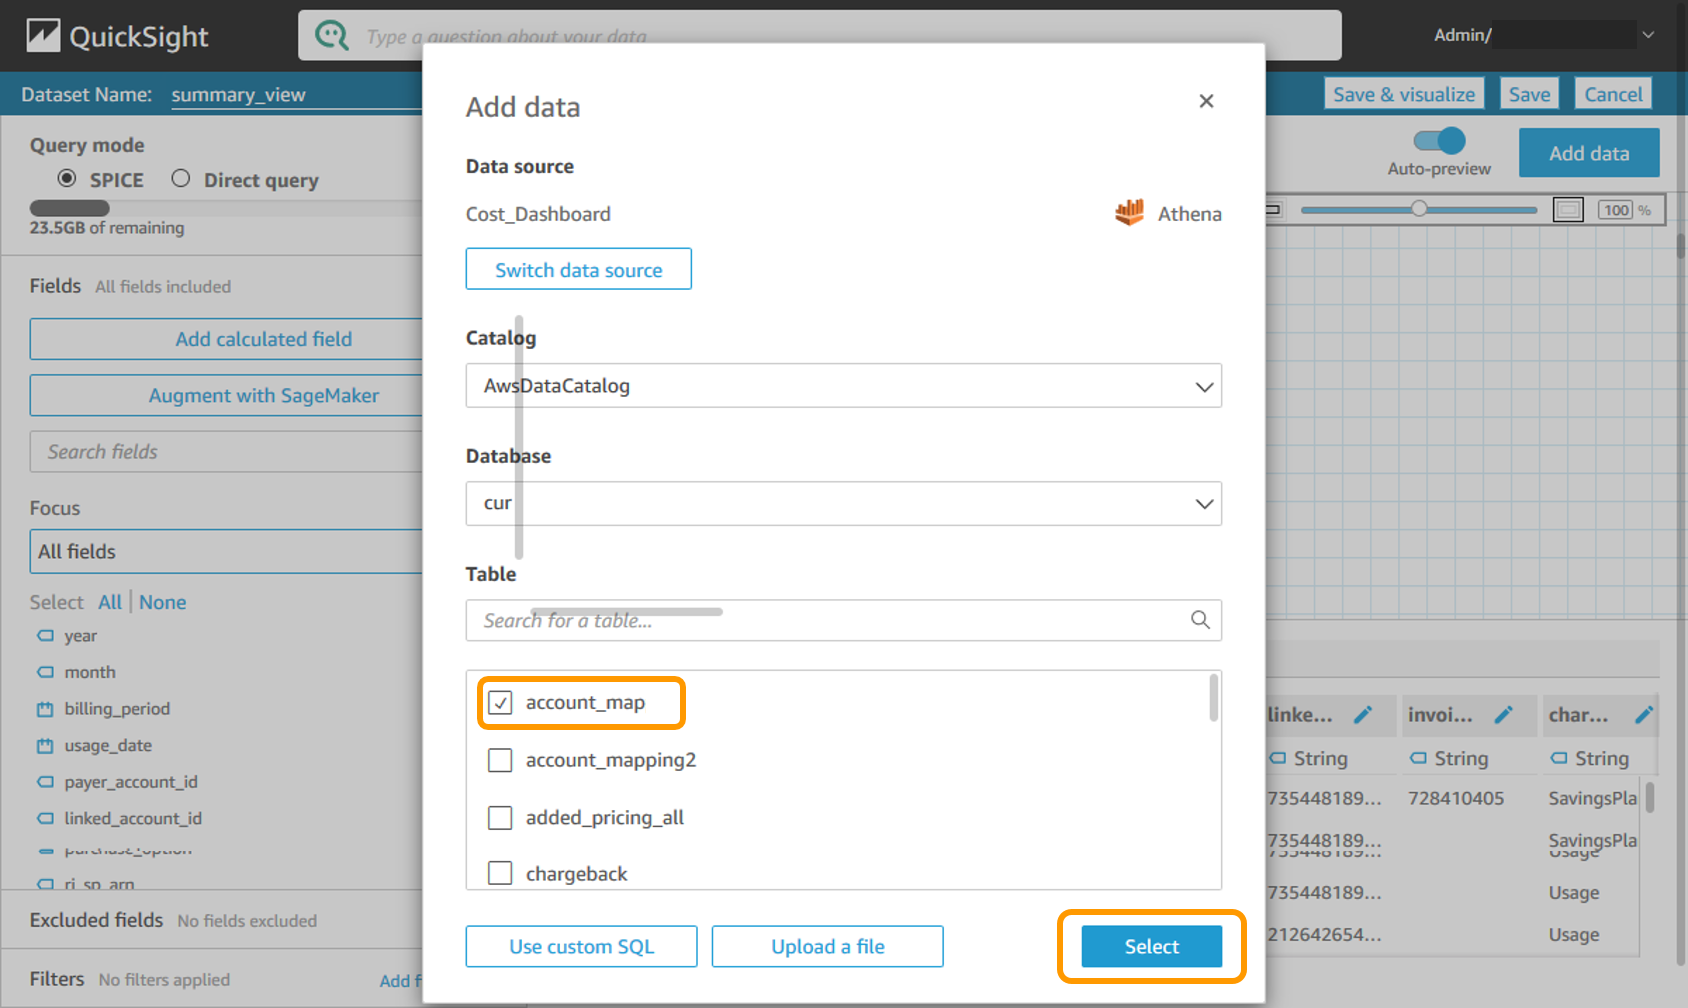
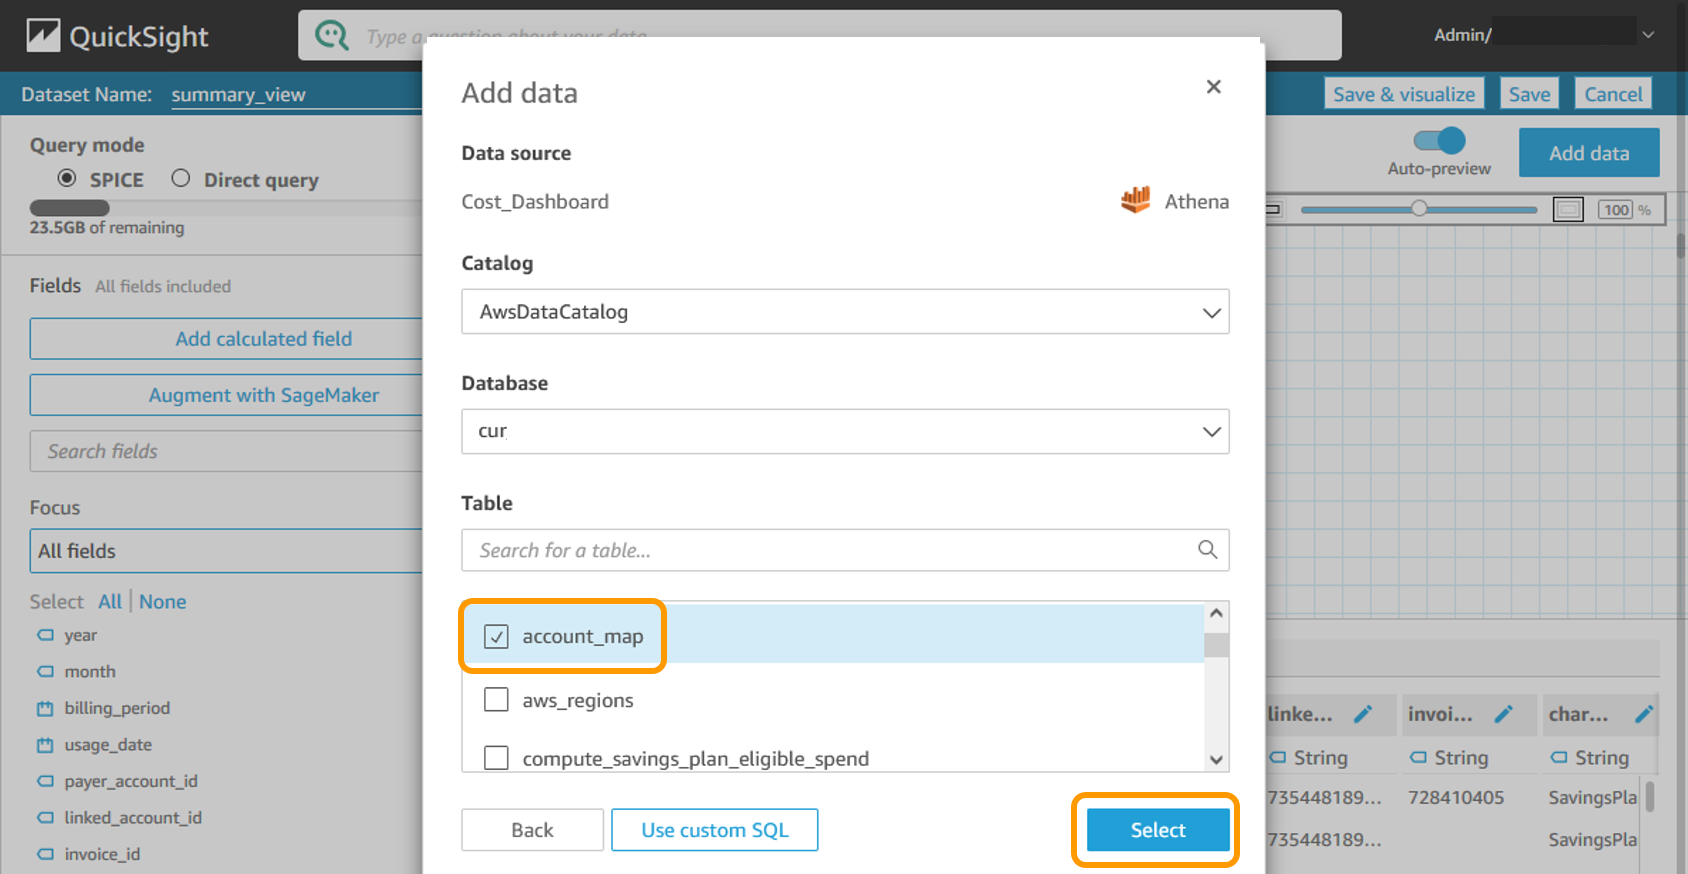
updated quicksight add data

diff --git a/content/Cost/200_Labs/200_Cloud_Intelligence/Cost & Usage Report Dashboards/Dashboards/2b_cudos_dashboard.md b/content/Cost/200_Labs/200_Cloud_Intelligence/Cost & Usage Report Dashboards/Dashboards/2b_cudos_dashboard.md
@@ -91,6 +91,7 @@ The data source for the dashboard will be an Athena view of your existing Cost a
 1.	From the left hand menu, choose **Datasets**
 
     ![qs_dataset_sidebar](/Cost/200_Cloud_Intelligence/Images/cur/qs_dataset_sidebar.png?classes=lab_picture_small)
+	
 1.	Click **New dataset** displayed in the top right corner
 
     ![qs_dataset](/Cost/200_Cloud_Intelligence/Images/cur/qs_dataset.png?classes=lab_picture_small)
@@ -114,12 +115,22 @@ The data source for the dashboard will be an Athena view of your existing Cost a
 1.	Click **Add Data**
 
     ![qs_add_data](/Cost/200_Cloud_Intelligence/Images/cur/qs_add_data.png?classes=lab_picture_small)
+	
+1.  Select **Data source**	
+  
+  ![qs_add_data_source](/Cost/200_Cloud_Intelligence/Images/cur/qs_add_data_source.png?classes=lab_picture_small)
+	
+10. Choose your **Cost_Dashboard** view and click **Select**
 
-1.	Choose your **account_map** view and click **Select**
+    ![qs_select_data_source_add](/Cost/200_Cloud_Intelligence/Images/cur/qs_select_data_source_add.png?classes=lab_picture_small)
 
-    ![qs_add_account_map](/Cost/200_Cloud_Intelligence/Images/cur/qs_add_account_map.png?classes=lab_picture_small)
+1.  Select the **database** which holds the CUR views you created
+	![qs_select_database_add](/Cost/200_Cloud_Intelligence/Images/cur/qs_select_database_add.png?classes=lab_picture_small)
+	
+12.  Choose your **account_map** view and click **Select**
+	![qs_add_account_map](/Cost/200_Cloud_Intelligence/Images/cur/qs_add_account_map.png?classes=lab_picture_small)
 
-1.	Click the two circles to open the **Join conﬁguration**, then select **Left** to change your join type
+13.	Click the two circles to open the **Join conﬁguration**, then select **Left** to change your join type
 
     ![qs_join_account_map_left](/Cost/200_Cloud_Intelligence/Images/cur/qs_join_account_map_left.png?classes=lab_picture_small)
 	
@@ -155,15 +166,20 @@ The data source for the dashboard will be an Athena view of your existing Cost a
 
     ![qs_exit_refresh](/Cost/200_Cloud_Intelligence/Images/cur/qs_exit_refresh.png?classes=lab_picture_small)
 
-1.	Repeat **steps 3-18**, creating data sets with the remaining Athena views. The data source name will be **Cost_Dashboard**, and select the following views as the table:
+1.	Repeat **steps 3-21**, creating data sets with the remaining Athena views. You will reuse your existing **Cost_Dashboard** data source, and select the following views as the table:
 
  - s3_view
  - ec2_running_cost
  - compute_savings_plan_eligible_spend
 
-	When this step is complete, your Datasets tab should have **4 new SPICE Datasets**.
 
-20.	Select the **summary_view** dataset
+	**NOTE:** Make sure to reuse the existing Athena data source by scrolling to the bottom of the Data source create/select page when creating a new Dataset instead of creating a new data source  
+		------------ | -------------
+			![qs_data_source_scroll](/Cost/200_Cloud_Intelligence/Images/cur/qs_data_source_scroll.png?classes=lab_picture_small)
+
+	When this step is complete, your Datasets tab should have **4 new SPICE Datasets**
+	
+23.	Select the **summary_view** dataset
 
     ![qs_select_summary](/Cost/200_Cloud_Intelligence/Images/cur/qs_select_summary.png?classes=lab_picture_small)
 
@@ -175,7 +191,18 @@ The data source for the dashboard will be an Athena view of your existing Cost a
 
     ![qs_add_data_2](/Cost/200_Cloud_Intelligence/Images/cur/qs_add_data_2.png?classes=lab_picture_small)
 
-1.	Choose your **ri_sp_mapping view** and click **Select**
+1. Select **Data source**	
+    ![qs_add_data_source](/Cost/200_Cloud_Intelligence/Images/cur/qs_add_data_source.png?classes=lab_picture_small)
+	
+1.	Choose your **Cost_Dashboard** view and click **Select**
+
+    ![qs_select_data_source_add](/Cost/200_Cloud_Intelligence/Images/cur/qs_select_data_source_add.png?classes=lab_picture_small)
+
+1.  Select the **database** which holds the CUR views you created
+
+   ![qs_select_database_add](/Cost/200_Cloud_Intelligence/Images/cur/qs_select_database_add.png?classes=lab_picture_small)	
+	
+29.	Choose your **ri_sp_mapping view** and click **Select**
 
     ![qs_add_ri_sp](/Cost/200_Cloud_Intelligence/Images/cur/qs_add_ri_sp.png?classes=lab_picture_small)
 
@@ -214,7 +241,7 @@ The data source for the dashboard will be an Athena view of your existing Cost a
 
     ![qs_direct_query](/Cost/200_Cloud_Intelligence/Images/cur/qs_direct_query.png?classes=lab_picture_small)
 
-32.	Repeat steps 8-18, but configure this join clause in step 11:
+32.	Repeat steps 8-15, but configure this join clause in step 14:
     **line_item_usage_account_id** = **account_id**
 
     ![qs_customer_all_map](/Cost/200_Cloud_Intelligence/Images/cur/qs_customer_all_map.png?classes=lab_picture_small)

diff --git a/content/Cost/200_Labs/200_Cloud_Intelligence/Cost & Usage Report Dashboards/Dashboards/2a_cost_intelligence_dashboard.md b/content/Cost/200_Labs/200_Cloud_Intelligence/Cost & Usage Report Dashboards/Dashboards/2a_cost_intelligence_dashboard.md
@@ -117,12 +117,23 @@ The data source for the dashboard will be an Athena view of your existing Cost a
 1.	Click **Add Data**
 
     ![qs_add_data](/Cost/200_Cloud_Intelligence/Images/cur/qs_add_data.png?classes=lab_picture_small)
+	
+1.  Select **Data source**	
+  
+  ![qs_add_data_source](/Cost/200_Cloud_Intelligence/Images/cur/qs_add_data_source.png?classes=lab_picture_small)
+	
+10. Choose your **Cost_Dashboard** view and click **Select**
 
-1.	Choose your **account_map** view and click **Select**
+    ![qs_select_data_source_add](/Cost/200_Cloud_Intelligence/Images/cur/qs_select_data_source_add.png?classes=lab_picture_small)
 
-    ![qs_add_account_map](/Cost/200_Cloud_Intelligence/Images/cur/qs_add_account_map.png?classes=lab_picture_small)
+1.  Select the **database** which holds the CUR views you created
 
-1.	Click the two circles to open the **Join conﬁguration**, then select **Left** to change your join type
+   ![qs_select_database_add](/Cost/200_Cloud_Intelligence/Images/cur/qs_select_database_add.png?classes=lab_picture_small)
+	
+12.  Choose your **account_map** view and click **Select** 
+	![qs_add_account_map](/Cost/200_Cloud_Intelligence/Images/cur/qs_add_account_map.png?classes=lab_picture_small)
+
+13.	Click the two circles to open the **Join conﬁguration**, then select **Left** to change your join type
 
     ![qs_join_account_map_left](/Cost/200_Cloud_Intelligence/Images/cur/qs_join_account_map_left.png?classes=lab_picture_small)
 	
@@ -158,15 +169,20 @@ The data source for the dashboard will be an Athena view of your existing Cost a
 
     ![qs_exit_refresh](/Cost/200_Cloud_Intelligence/Images/cur/qs_exit_refresh.png?classes=lab_picture_small)
 
-1.	Repeat **steps 3-18**, creating data sets with the remaining Athena views. The data source name will be **Cost_Dashboard**, and select the following views as the table:
+1.	Repeat **steps 3-21**, creating data sets with the remaining Athena views. You will reuse your existing **Cost_Dashboard** data source, and select the following views as the table:
 
  - s3_view
  - ec2_running_cost
  - compute_savings_plan_eligible_spend
 
-	When this step is complete, your Datasets tab should have **4 new SPICE Datasets**.
 
-20.	Select the **summary_view** dataset
+	**NOTE:** Make sure to reuse the existing Athena data source by scrolling to the bottom of the Data source create/select page when creating a new Dataset instead of creating a new data source  
+		------------ | -------------
+			![qs_data_source_scroll](/Cost/200_Cloud_Intelligence/Images/cur/qs_data_source_scroll.png?classes=lab_picture_small)
+
+	When this step is complete, your Datasets tab should have **4 new SPICE Datasets**
+	
+23.	Select the **summary_view** dataset
 
     ![qs_select_summary](/Cost/200_Cloud_Intelligence/Images/cur/qs_select_summary.png?classes=lab_picture_small)
 
@@ -178,7 +194,18 @@ The data source for the dashboard will be an Athena view of your existing Cost a
 
     ![qs_add_data_2](/Cost/200_Cloud_Intelligence/Images/cur/qs_add_data_2.png?classes=lab_picture_small)
 
-1.	Choose your **ri_sp_mapping view** and click **Select**
+1. Select **Data source**	
+    ![qs_add_data_source](/Cost/200_Cloud_Intelligence/Images/cur/qs_add_data_source.png?classes=lab_picture_small)
+	
+1.	Choose your **Cost_Dashboard** view and click **Select**
+
+    ![qs_select_data_source_add](/Cost/200_Cloud_Intelligence/Images/cur/qs_select_data_source_add.png?classes=lab_picture_small)
+
+1.  Select the **database** which holds the CUR views you created
+
+   ![qs_select_database_add](/Cost/200_Cloud_Intelligence/Images/cur/qs_select_database_add.png?classes=lab_picture_small)	
+	
+29.	Choose your **ri_sp_mapping view** and click **Select**
 
     ![qs_add_ri_sp](/Cost/200_Cloud_Intelligence/Images/cur/qs_add_ri_sp.png?classes=lab_picture_small)
 

diff --git a/content/Cost/200_Labs/200_Cloud_Intelligence/_index.md b/content/Cost/200_Labs/200_Cloud_Intelligence/_index.md
@@ -37,6 +37,7 @@ In this lab, you will find step-by-step guides on how to implement some or all o
 - [**Cost Intelligence Dashboard (CID) - Overview**](#cost-intelligence-dashboard-cid)
 - [**CUDOS Dashboard - Overview**](#cudos-dashboard)
 - [**Trusted Advisor Organizational (TAO) Dashboard - Overview**](#trusted-advisor-organizational-tao-dashboard)
+- [**Additional Dashboards - Overview**](#additional-dashboards)
 
 The Cloud Intelligence Dashboards include (but are not limited to) the following benefits:
 
@@ -103,10 +104,21 @@ Trusted Advisor Organizational (TAO) requires the management account in your org
 - [Get started with the TAO Dashboard](trusted-advisor-dashboards/)
 - [Explore a sample TAO Dashboard](https://d1s0yx3p3y3rah.cloudfront.net/anonymous-embed?dashboard=tao) 
 
+### Additional Dashboards
+In addition to the 3 foundational dashboards, there are additional dashboards you can leverage to gain deeper insights into your cost and usage.   
+
+* Data Transfer Dashboard 
+* Trends Dashboard
+
+**Services used:** AWS Cost and Usage Report (CUR), Amazon Athena, AWS Glue, Amazon S3, and Amazon QuickSight. 
+
+- [Get started with the Additional Dashboards](cost-usage-report-dashboards/)
+
 ## Steps:
 - [Get started with the Cost Intelligence Dashboard](cost-usage-report-dashboards/)
 - [Get started with the CUDOS Dashboard](cost-usage-report-dashboards/)
 - [Get started with the TAO Dashboard](trusted-advisor-dashboards/)
+- [Get started with the Additional Dashboards](cost-usage-report-dashboards/)
 
 ## Authors
 

diff --git a/content/Cost/200_Labs/200_Cloud_Intelligence/Cost & Usage Report Dashboards/_index.md b/content/Cost/200_Labs/200_Cloud_Intelligence/Cost & Usage Report Dashboards/_index.md
@@ -36,6 +36,10 @@ The AWS Cost & Usage Report (CUR) contains the most comprehensive set of AWS cos
 
 - Create the Cost Intelligence dashboard
 - Create the CUDOS dashboard
+- Create Additional Dashboards
+	- Data Transfer Dashboard
+	- Trends Dashboard 
+
 - Distribute your dashboards in your organization
 
 
@@ -61,5 +65,9 @@ Approximately 45-60 minutes to onboard all CUR dashboards in this section manual
 ## Steps:
 
 {{% children  /%}}
+
+{{% notice note %}}
+Additional Dashboards include the **Data Transfer Dashboard** and **Trends Dashboard** 
+{{% /notice %}} 
 
 {{< prev_next_button link_next_url="../cost-usage-report-dashboards/dashboards/1_prerequistes/" button_next_text="Start Lab" first_step="true" />}}

diff --git a/content/Cost/200_Labs/200_Enterprise_Dashboards/3_create_data_transfer_cost_analysis.md b/content/Cost/200_Labs/200_Enterprise_Dashboards/3_create_data_transfer_cost_analysis.md
@@ -7,7 +7,7 @@ pre: "<b>3. </b>"
 ---
 
 {{% notice note %}}
-This **Lab has moved** under the Level 200 Cloud Intelligence Dashboards.[**Click this link to navigate to the updated Lab**]({{< ref "/Cost/200_Labs/200_Cloud_Intelligence" >}})
+This **Lab has moved** under the Level 200 Cloud Intelligence Dashboards.[**Click this link to navigate to the updated Lab**]({{< ref "/Cost/200_Labs/200_Cloud_Intelligence/" >}})
 {{% /notice %}}
 
 
